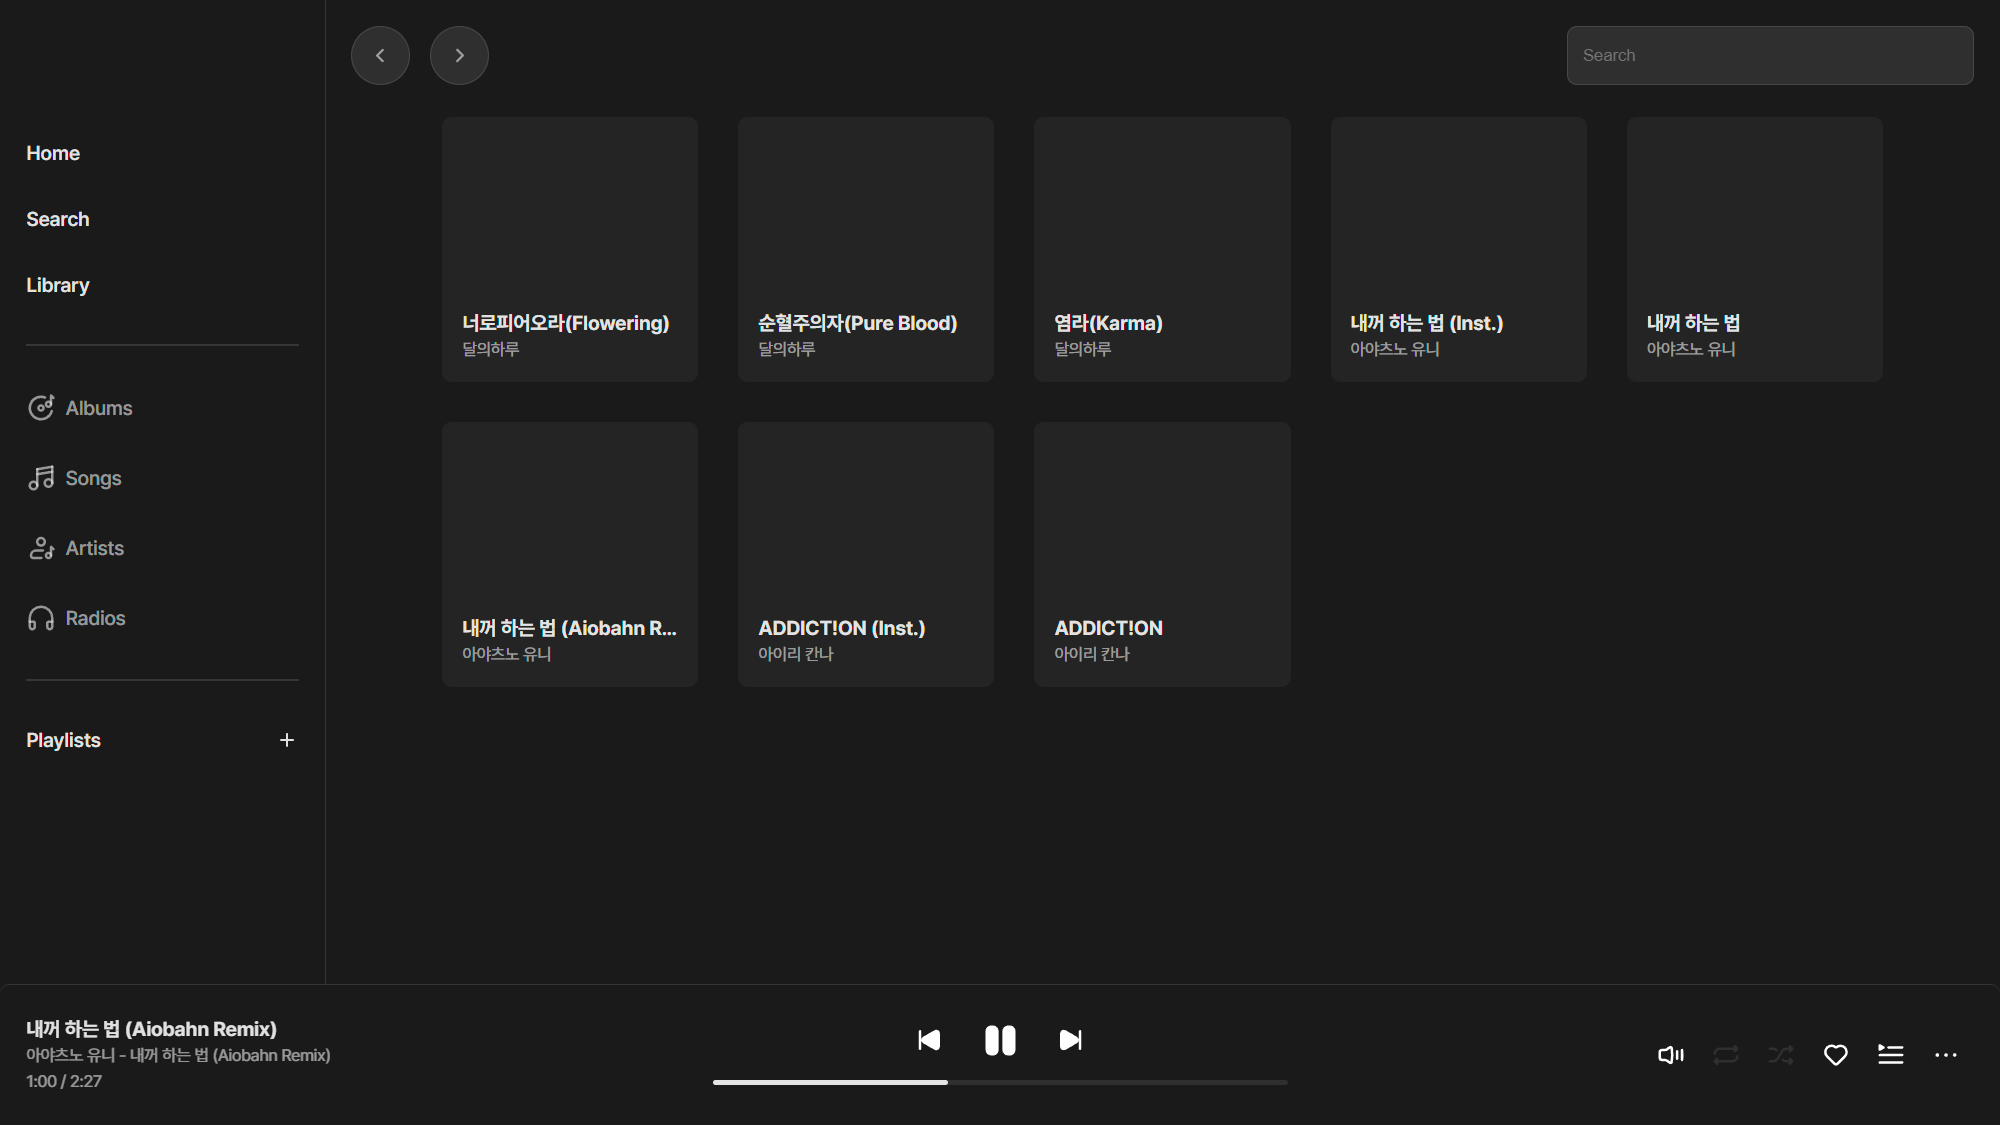
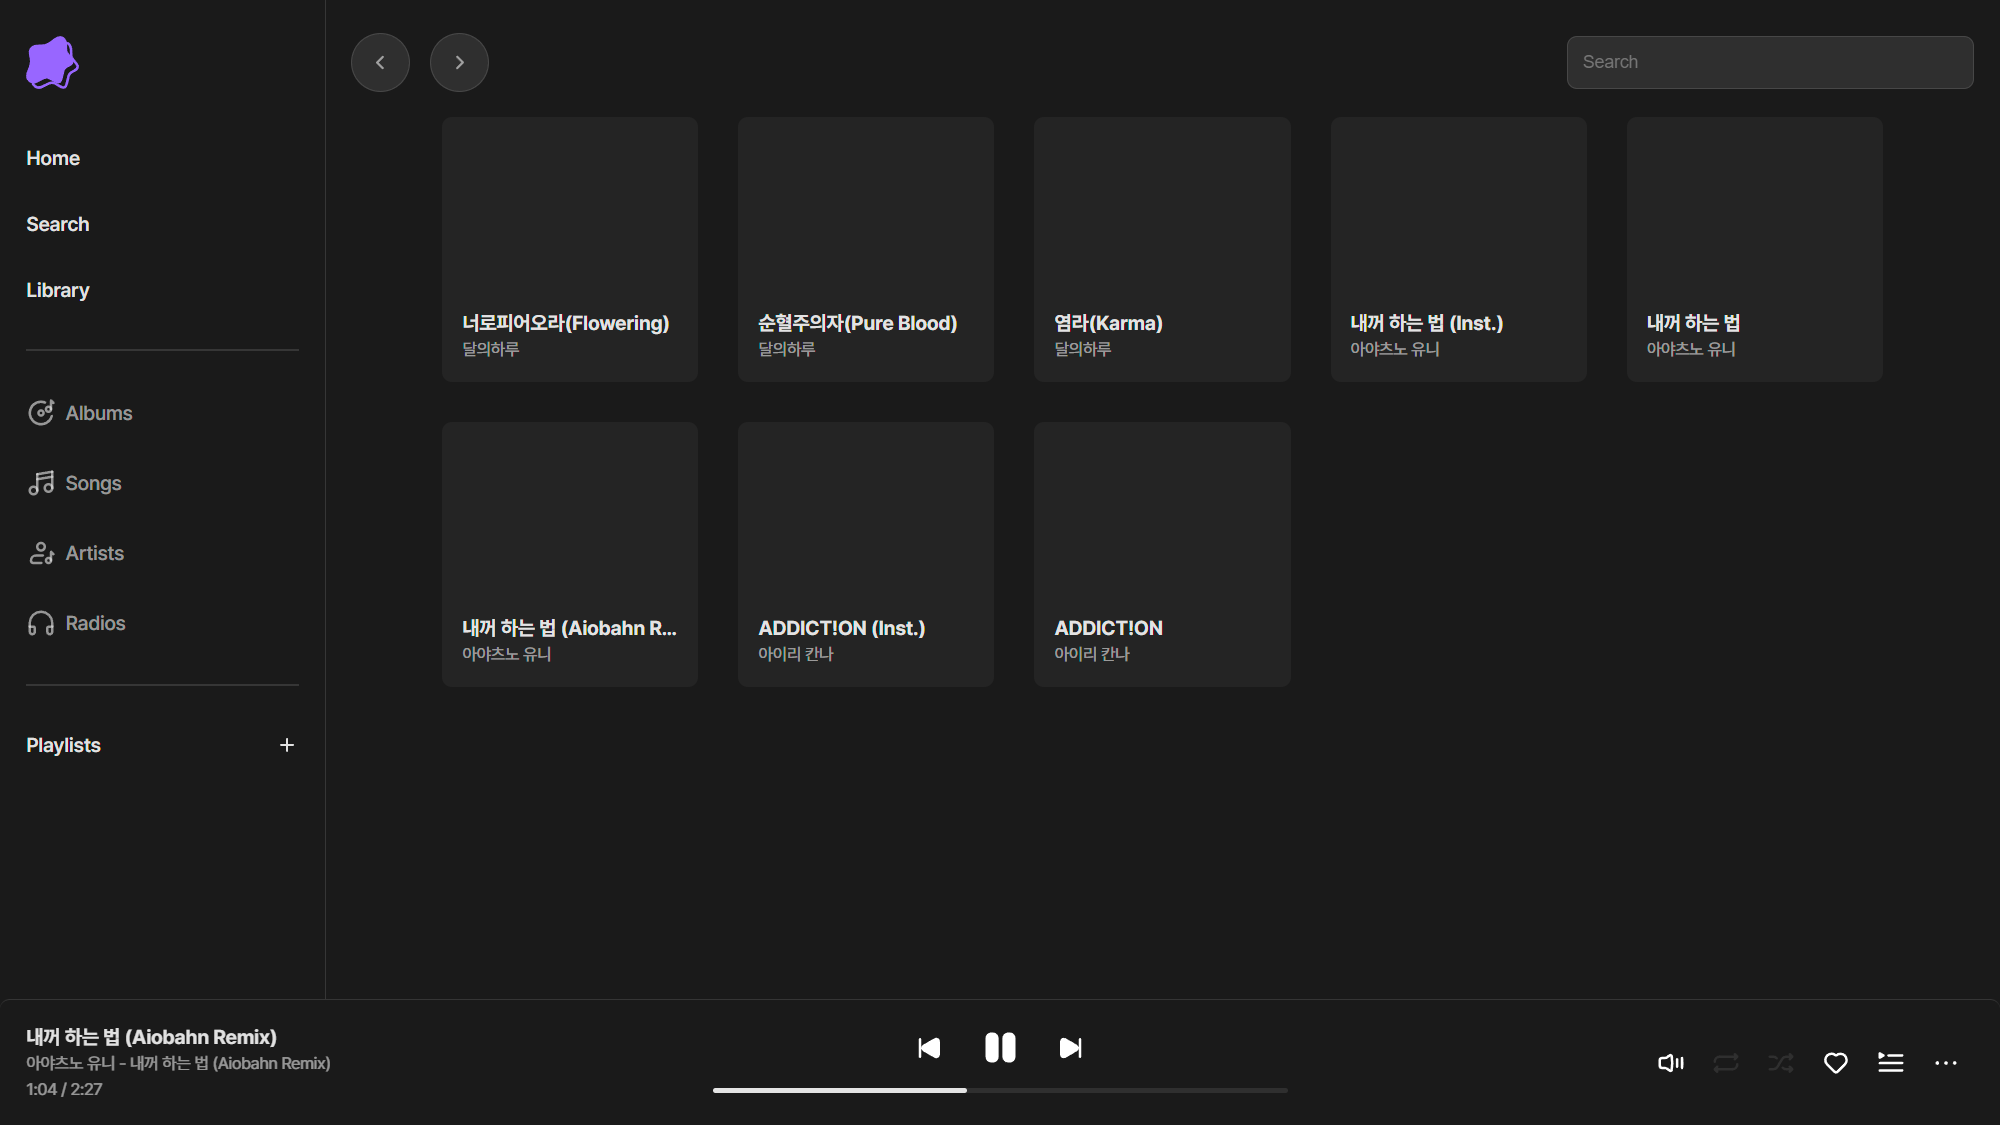
update README

diff --git a/web/src/components/Sidebar.vue b/web/src/components/Sidebar.vue
@@ -1,6 +1,6 @@
 <template>
   <div class="sidebar-item sidebar-item-logo">
-    <img src="/Tamaya.svg" class="sidebar-logo">
+    <img src="/tamaya.svg" class="sidebar-logo">
   </div>
   <div class="sidebar-item">
     <router-link to="/" class="sidebar-text">

diff --git a/web/src/assets/style.css b/web/src/assets/style.css
@@ -178,7 +178,7 @@ button:focus {
   background-color: var(--color-dark-3);
   width: 300px;
   border: 1px solid var(--color-divider-dark-1);
-  height: -webkit-fill-available;
+  font-size: 14px;
 }
 
 .navbar-icon {

diff --git a/README.md b/README.md
@@ -1,6 +1,6 @@
 <br>
 <p align="center">
-  <img src="https://github.com/bunubbv/tamaya/assets/75381985/766197c6-9293-4262-a36e-cb2f878a9482" width="72">
+  <img src="/web/public/tamaya.svg" width="72">
   <h3 align="center">Tamaya</h3>
   <p align="center">Self-hosted music streaming platform
   <br><br>
@@ -13,8 +13,14 @@
   <img src=".github/screenshots/tamaya.png" width="900">
 </p>
 
-Tamaya is a fast, lightweight self-hosted music streaming platform that supports various audio formats, streamlined folder structures with beautiful UI.
+Tamaya is a fast, lightweight self-hosted music streaming platform that supports various audio formats with simple interface.
 
-I have little experience doing backend development with Python, And this is my first time using JavaScript and Vue.js. 
+I have little experience doing backend development with Python, And this is my first time using JavaScript and Vue.js. Since this project is part of my learning process, there may be many areas that need improvement. so Feedback is welcome!
 
-Since this project is part of my learning process, there may be many areas that need improvement. so Feedback is welcome!
+## Demo
+
+## Documentation
+
+## Installation
+
+## Features
